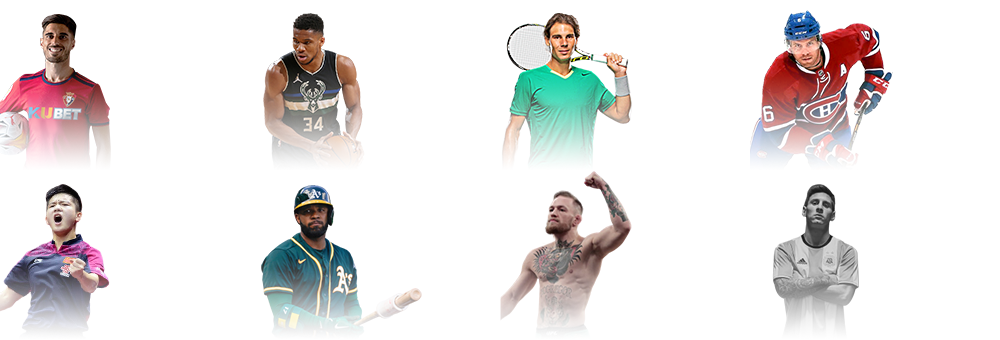
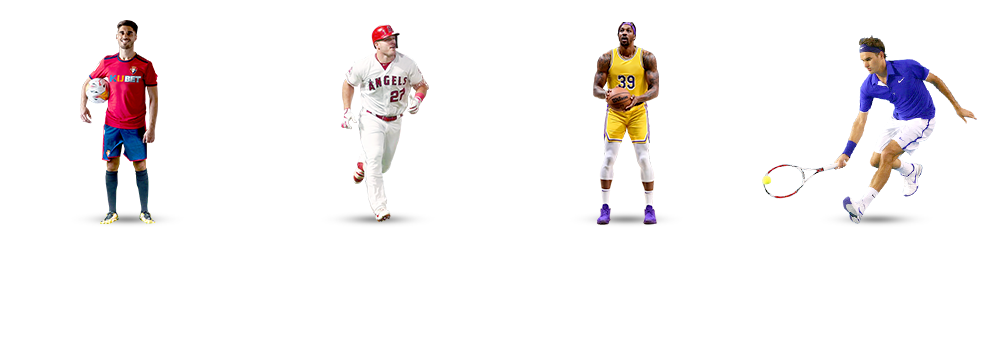
update menu

diff --git a/server_side_kubet-clone2/resources/views/web/bundles/css_main.css b/server_side_kubet-clone2/resources/views/web/bundles/css_main.css
@@ -6907,6 +6907,9 @@ body {
     cursor: pointer;
     float: left;
     height: 100%;
+    display: flex;
+    flex-direction: column;
+
 }
 
 .subListDiv:not(.off):not(.notice) {
@@ -6957,7 +6960,7 @@ body {
 }
 
 .subListTwo .subListDiv {
-    height: 50%;
+    height: 100%;
 }
 
 .listName {
@@ -7380,7 +7383,8 @@ body {
 
 .subListTwo .listLogo {
     height: 100px;
-    top: 40px;
+    top: 231px;
+    left: 65px;
 }
 
 .subList:not(.subListTwo) .Darkened2 ~ .listLogo,
